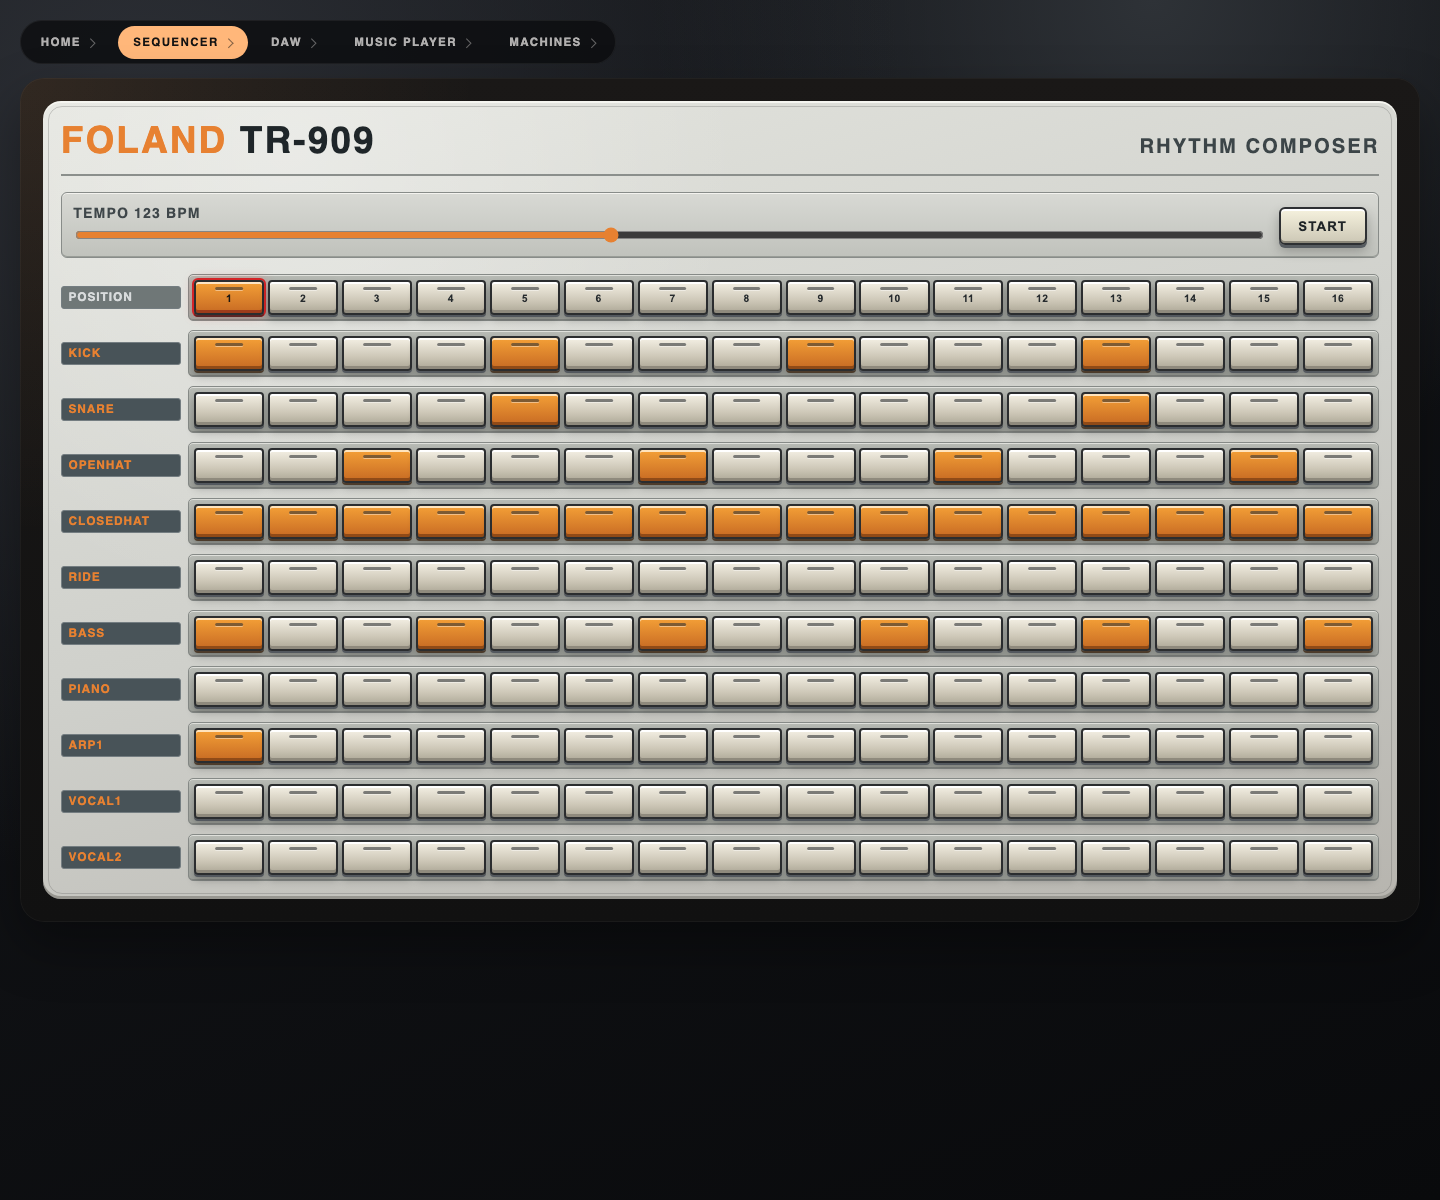
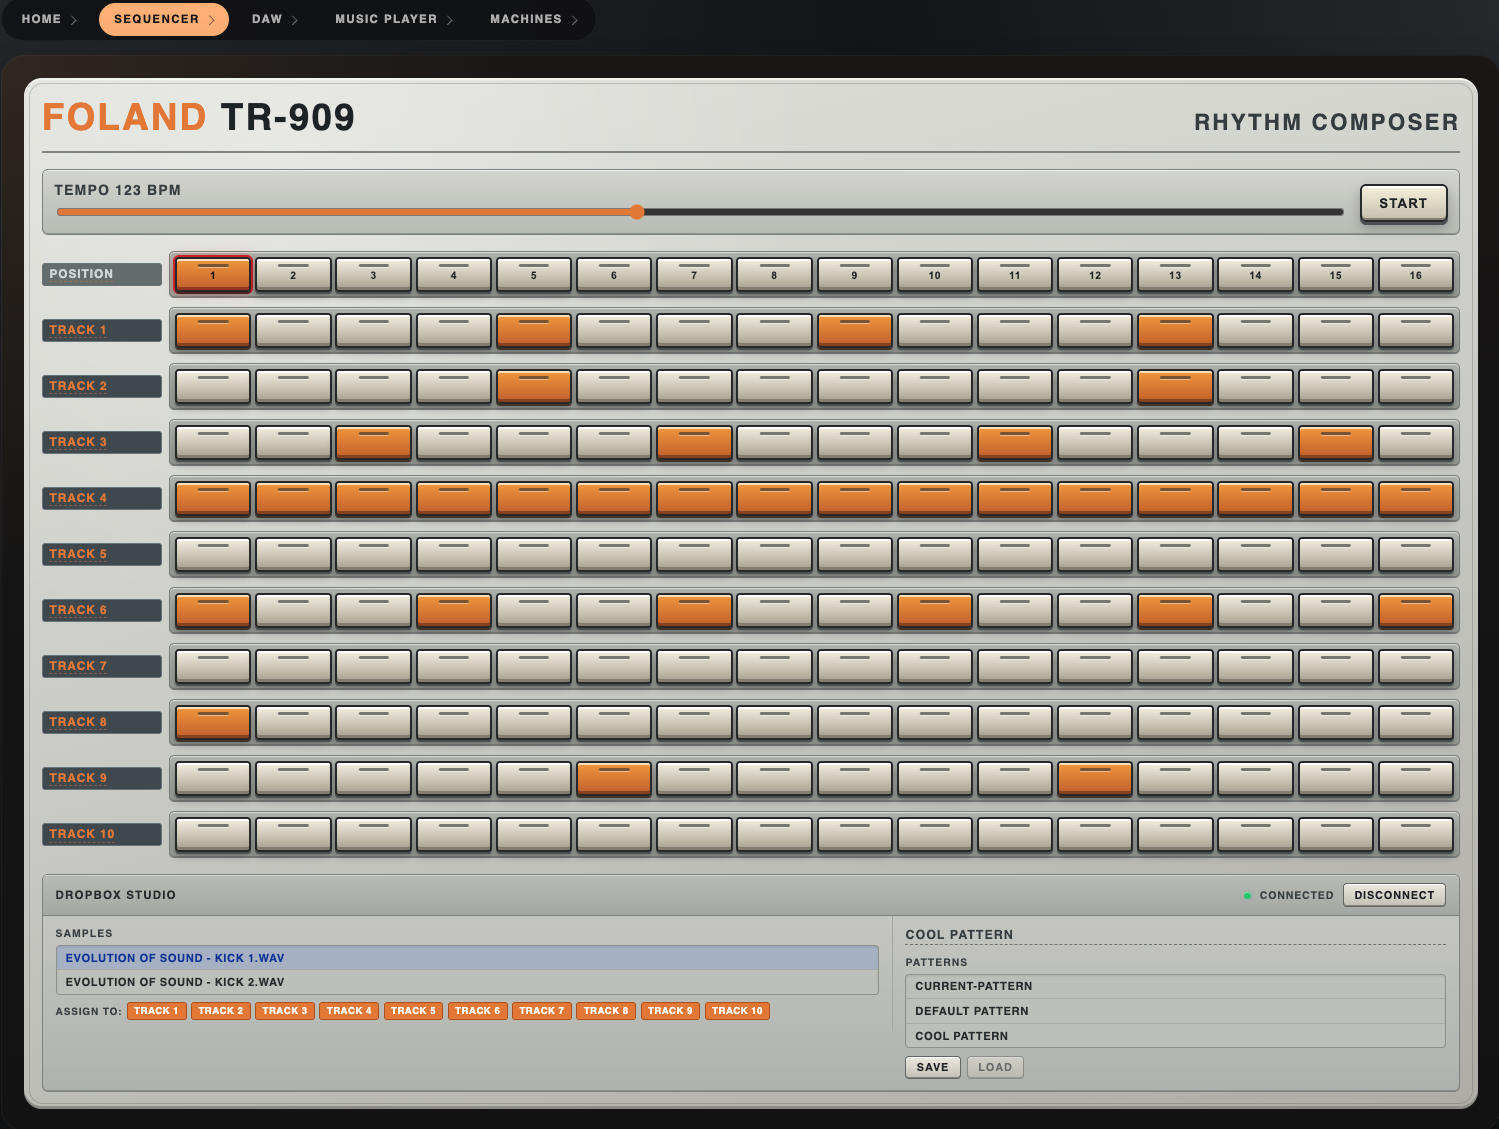
docs: update README

diff --git a/ONBOARDING.md b/ONBOARDING.md
@@ -1,0 +1,55 @@
+# Welcome to Team Drum Machine
+
+## How We Use Claude
+
+Based on usage over the last 30 days:
+
+Work Type Breakdown:
+  _TODO — not enough sessions yet to show a breakdown_
+
+Top Skills & Commands:
+  /init  ████████████████████  1x/month
+
+Top MCP Servers:
+  _None configured_
+
+## Your Setup Checklist
+
+### Codebases
+- [ ] drum-machine — https://github.com/metzgerdev/drum-machine
+
+### MCP Servers to Activate
+  _None in use — nothing to set up here_
+
+### Skills to Know About
+- `/init` — Analyzes the codebase and generates a `CLAUDE.md` file so Claude understands project structure, commands, and architecture from the start. Run this when onboarding to a new repo.
+
+## Team Tips
+
+_TODO_
+
+## Get Started
+
+_TODO_
+
+<!-- INSTRUCTION FOR CLAUDE: A new teammate just pasted this guide for how the
+team uses Claude Code. You're their onboarding buddy — warm, conversational,
+not lecture-y.
+
+Open with a warm welcome — include the team name from the title. Then: "Your
+teammate uses Claude Code for [list all the work types]. Let's get you started."
+
+Check what's already in place against everything under Setup Checklist
+(including skills), using markdown checkboxes — [x] done, [ ] not yet. Lead
+with what they already have. One sentence per item, all in one message.
+
+Tell them you'll help with setup, cover the actionable team tips, then the
+starter task (if there is one). Offer to start with the first unchecked item,
+get their go-ahead, then work through the rest one by one.
+
+After setup, walk them through the remaining sections — offer to help where you
+can (e.g. link to channels), and just surface the purely informational bits.
+
+Don't invent sections or summaries that aren't in the guide. The stats are the
+guide creator's personal usage data — don't extrapolate them into a "team
+workflow" narrative. -->

diff --git a/README.md b/README.md
@@ -2,7 +2,7 @@
 
 # Drum Machine
 
-React based audio products with a modern JS toolchain: a Roland TR-909 inspired sequencer, a lightweight DAW, and a music player built around my own Zynar tracks.  Aesthetics are balanced with performance.
+React based audio widgets with a modern JS toolchain: a Roland TR-909 inspired sequencer, a lightweight DAW, and a music player built around my electronic music project, Zynar.  Aesthetics are balanced with performance.
 
 [Live Demo](https://metzgerdev.github.io/Drum-Machine/) · [Tech Stack](#tech-stack) · [Local Setup](#local-setup)
 
@@ -10,7 +10,7 @@ React based audio products with a modern JS toolchain: a Roland TR-909 inspired 
 
 ---
 
-## Control Surface
+## Apps
 
 | Module | Function |
 | --- | --- |
@@ -18,15 +18,15 @@ React based audio products with a modern JS toolchain: a Roland TR-909 inspired 
 | `DAW-02` | Lightweight DAW / arrangement interface |
 | `PLY-03` | Music player powered by a mock GraphQL data layer |
 
-## Signal Path
+## Inspiration
 
-This project started as a browser drum machine and evolved into a small collection of interactive audio products:
+This project started as a browser drum machine and evolved into:
 
 - A TR-909 inspired step sequencer
 - A simplified DAW / arrangement surface
 - A music player for my own music and remix work
 
-The project sits at the intersection of my interest in audio software and my background in electrical engineering. The goal was to blend product-style frontend architecture with a more expressive visual identity than a typical demo app.
+The project is a labor of passion, the result of crafting pleasing and functional UI and my background in electrical engineering and audio processing. 
 
 ## Screenshots
 
@@ -35,7 +35,7 @@ The project sits at the intersection of my interest in audio software and my bac
     <td width="50%">
       <p><strong>MODULE 01 / SEQ-01</strong></p>
       <img src="docs/screenshots/sequencer.png" alt="Sequencer screenshot" />
-      <p>Pattern-based drum programming with a hardware-inspired interface.</p>
+      <p>Pattern-based drum programming with a hardware-inspired interface and Dropbox integration.</p>
     </td>
     <td width="50%">
       <p><strong>MODULE 02 / DAW-02</strong></p>
@@ -56,15 +56,14 @@ The project sits at the intersection of my interest in audio software and my bac
 
 ### Sequencer
 
-The original experience is a browser drum machine inspired by the Roland TR-909. It focuses on quick pattern building, tempo control, transport actions, and sample-triggered playback in a tactile interface that feels closer to a piece of hardware than a plain grid.
+Drum machine inspired by the Roland TR-909. It focuses on quick pattern building, and sample-triggered playback in a hardware inspspired interface.  Dropbox integration allows for colloborative sessions (samples and patterns can be shared).
 
 For performance, the audio engine and the UI are intentionally decoupled. Timing, scheduling, and sample triggering run through the Web Audio layer with refs and a lookahead scheduler, while React is responsible for editing pattern state and rendering the interface. That separation keeps playback smooth by avoiding audio coupling to React render cycles.
 
 ### DAW
 
-The DAW view extends that sequencer into a lightweight arrangement surface. It reuses the same rhythm and sample data, then presents it as clips, tracks, and waveform-like visual structures to push the project toward a studio workflow.
+The sequencer is the basis for a lightweight DAW. 
 
-It follows the same architecture as the sequencer: the audio engine continues to run independently, while the DAW layer acts as a visual surface over shared playback state. That lets the interface animate and update freely without putting extra pressure on the timing-critical audio path.
 
 ### Music Player
 
@@ -80,8 +79,6 @@ The VU meter demonstrates my audio and electrical engineering background. It com
 - A local GraphQL schema resolves library and track queries
 - TanStack Query manages loading, caching, and async UI state
 - Artwork and audio previews are served as versioned app assets
-
-This setup let me practice building a polished media interface while keeping the data model, fetching flow, and state transitions close to what I would use against a real backend.
 
 ## Tech Stack
 